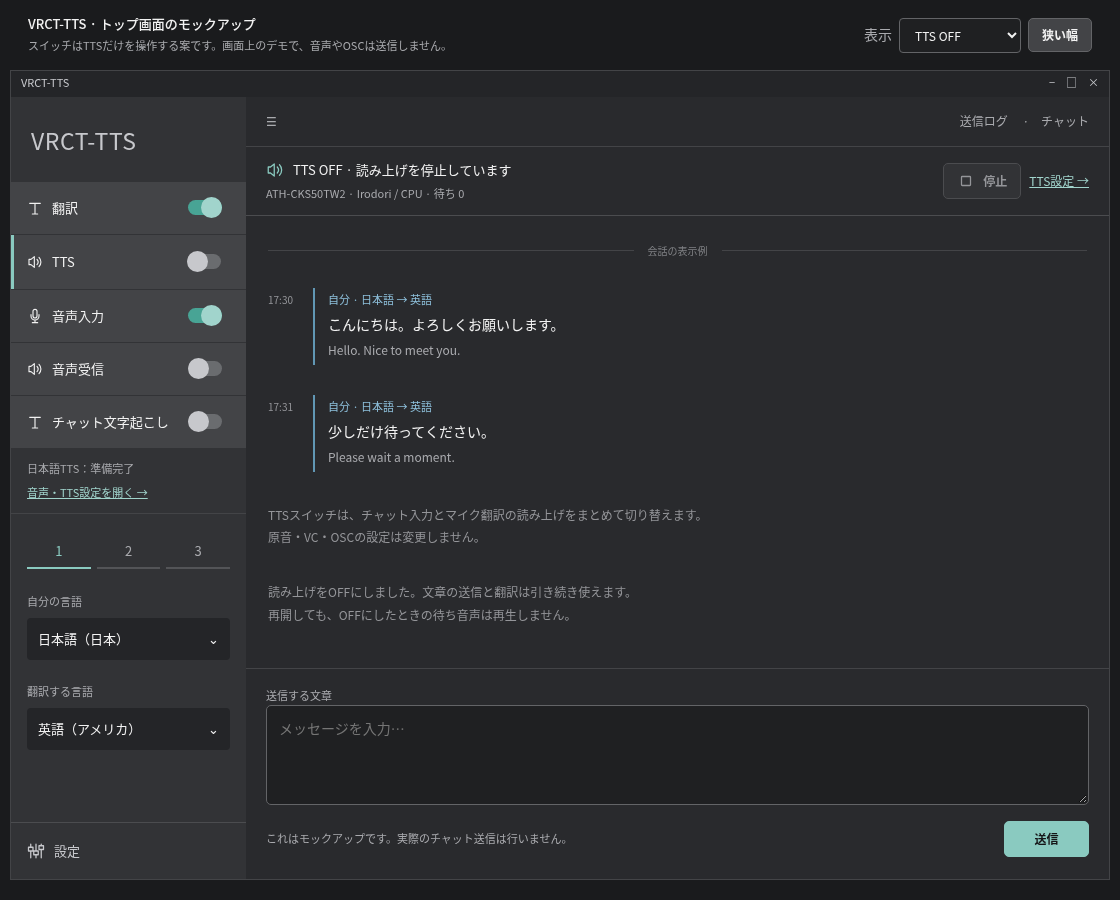
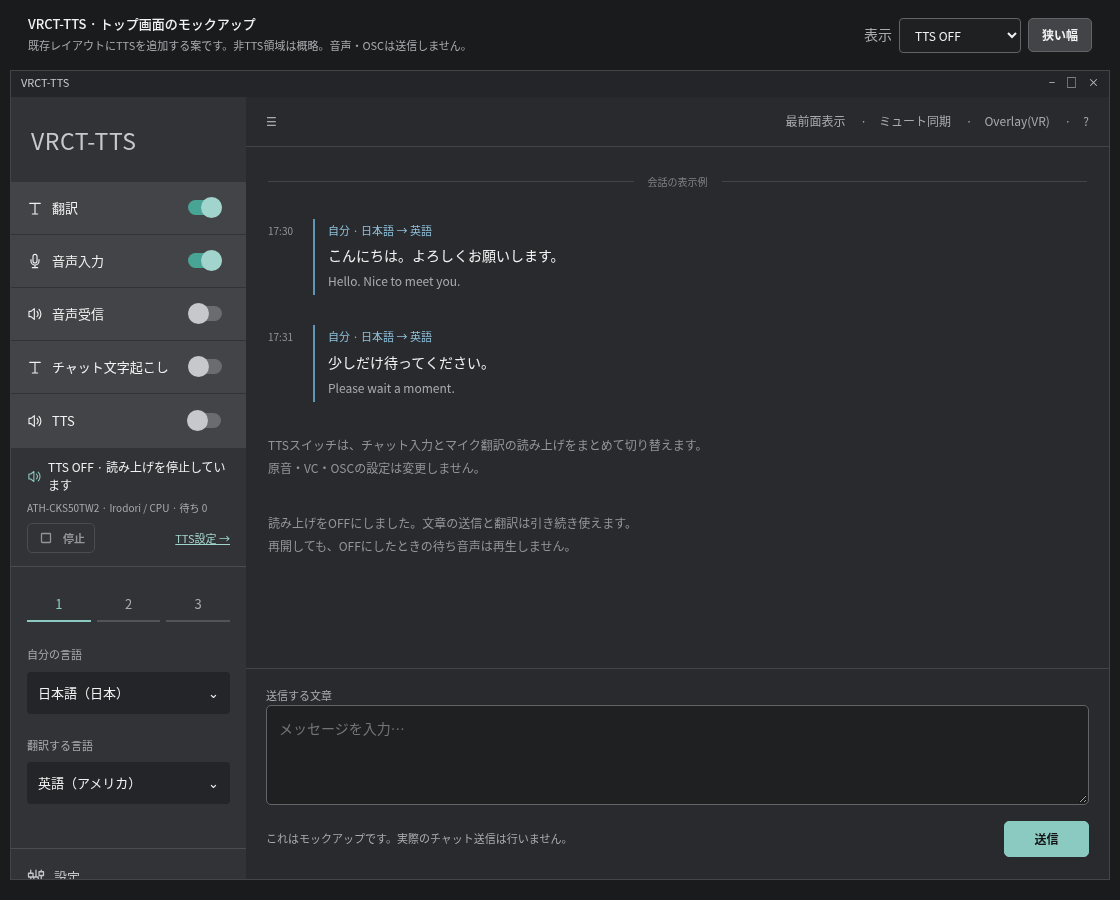
docs(tts): preserve existing VRCT layout in UI proposal

diff --git a/docs/design/tts-settings/main.html b/docs/design/tts-settings/main.html
@@ -8,14 +8,25 @@
 </style>
 <style>
 .home-layout{display:grid;grid-template-columns:235px minmax(0,1fr);min-height:0;flex:1}.home-sidebar{background:#323336;display:flex;flex-direction:column;overflow:auto}.brand{padding:26px 20px 23px;font-size:23px;font-weight:400;letter-spacing:.025em;color:#c7c8cc}.switches{display:grid;gap:1px}.switch-row{display:flex;align-items:center;justify-content:space-between;gap:8px;min-height:52px;padding:13px 16px;background:#434447;color:#f2f2f2}.switch-row .label{display:flex;align-items:center;gap:9px;font-size:13px}.switch-row .label svg{width:16px}.switch-row.tts{border-left:3px solid #8acac0;padding-left:13px}.switch-control{display:flex;align-items:center;gap:7px;min-height:28px;min-width:52px;padding:3px;border:0;background:transparent!important;box-shadow:none}.switch-track{display:block;width:34px;height:15px;border-radius:15px;background:#6a6c6f;position:relative}.switch-track:after{content:"";position:absolute;left:0;top:-3px;width:21px;height:21px;border-radius:100%;background:#c7c8cc}.switch-control[aria-checked=true] .switch-track,.switch-track.on{background:#48a495}.switch-control[aria-checked=true] .switch-track:after,.switch-track.on:after{left:13px;background:#a1d4cc}.switch-track.static{width:34px;flex:none;margin:0 8px}.language-box{padding:21px 16px}.preset{display:flex;gap:6px;margin-bottom:24px}.preset span{flex:1;text-align:center;border-bottom:2px solid #535457;padding:6px;color:#a9aaae;font-size:13px}.preset span.active{border-color:#8acac0;color:#8acac0}.language-box small{display:block;font-size:11px;margin-bottom:8px}.language{background:#242528;padding:11px;border-radius:4px;display:flex;justify-content:space-between;font-size:13px;margin-bottom:23px}.settings-link{margin-top:auto;padding:18px 16px;border-top:1px solid #4b4c4f;display:flex;align-items:center;gap:9px;text-decoration:none;color:#c7c8cc;font-size:13px}.chat{display:flex;flex-direction:column;min-height:0}.chat-top{display:flex;align-items:center;justify-content:space-between;padding:13px 20px;border-bottom:1px solid #434447;font-size:12px;color:#a9aaae;min-height:50px}.tts-strip{display:flex;align-items:center;justify-content:space-between;gap:15px;padding:13px 20px;background:#2e3535;border-bottom:1px solid #4b4c4f}.tts-strip .title{display:flex;align-items:center;gap:9px;font-size:13px}.tts-strip .title svg{color:#8acac0}.tts-strip small{font-size:11px;display:block;margin-top:5px}.tts-strip .actions{align-items:center}.tts-strip button{font-size:12px}.tts-strip a{font-size:12px;white-space:nowrap}.messages{padding:27px 22px;overflow:auto;flex:1}.date-line{display:flex;align-items:center;gap:14px;color:#7f8084;font-size:10px;margin-bottom:29px}.date-line:before,.date-line:after{content:"";height:1px;flex:1;background:#434447}.message{display:flex;gap:13px;margin-bottom:30px}.message-time{font-size:10px;color:#949599;padding-top:4px;min-width:32px}.message-content{border-left:2px solid #6197b4;padding-left:13px}.message-content small{color:#8ec0dc;font-size:11px}.message-content p{font-size:14px;margin:5px 0}.message-content .translation{color:#a9aaae;font-size:12px}.empty-hint{font-size:12px;color:#949599;margin-top:32px;line-height:1.9}.input-area{padding:15px 20px 22px;border-top:1px solid #434447}.input-area textarea{width:100%;min-height:100px;resize:vertical;border:1px solid #636467;background:#1f2022;color:#f2f2f2;padding:12px;border-radius:5px;font:14px/1.7 inherit}.input-actions{display:flex;align-items:center;justify-content:space-between;margin-top:10px;gap:12px}.input-actions small{font-size:11px}.input-actions button{min-width:85px;font-size:12px}.ready-note{font-size:11px;padding:12px 16px;color:#a9aaae;border-bottom:1px solid #434447}.ready-note a{display:inline-block;margin-top:7px}.tts-strip.off{background:#292a2d}.tts-strip.unready{background:#38322b}.tts-strip.unready .title svg{color:#e4b57b}.compact .home-layout{grid-template-columns:175px minmax(0,1fr)}.compact .tts-strip{align-items:flex-start;flex-direction:column}@media(max-width:760px){.home-layout{grid-template-columns:170px minmax(0,1fr)}.tts-strip{align-items:flex-start;flex-direction:column}.brand{font-size:19px;padding-left:14px}.switch-row{padding:13px 10px}.switch-row .label{font-size:12px}.input-actions{align-items:flex-start;flex-direction:column}}
+
+/* Keep the main message area unchanged; TTS lives beside the existing switches. */
+.switch-row.tts{border-left:0;padding-left:16px}
+.home-sidebar>.tts-strip{padding:10px 16px 13px;background:#323336;flex-direction:column;align-items:stretch;gap:8px}
+.home-sidebar>.tts-strip .title{font-size:12px;gap:6px}
+.home-sidebar>.tts-strip .title svg{width:15px;height:15px;flex:none}
+.home-sidebar>.tts-strip small{font-size:10px;overflow-wrap:anywhere}
+.home-sidebar>.tts-strip .actions{justify-content:space-between}
+.home-sidebar>.tts-strip button{font-size:11px;min-height:30px;padding:4px 9px}
+.home-sidebar>.tts-strip a{font-size:11px}
+.home-sidebar>.tts-strip.unready{background:#38322b}
 </style>
 <svg style="display:none"><defs><symbol id="speaker" viewBox="0 0 24 24"><path d="M11 4 6 8H3v8h3l5 4zM15 8a6 6 0 0 1 0 8m3-11a10 10 0 0 1 0 14"/></symbol><symbol id="mic" viewBox="0 0 24 24"><rect x="9" y="2" width="6" height="13" rx="3"/><path d="M6 10v2a6 6 0 0 0 12 0v-2m-6 8v4m-4 0h8"/></symbol><symbol id="text" viewBox="0 0 24 24"><path d="M4 5h16M12 5v16M8 21h8"/></symbol><symbol id="stop" viewBox="0 0 24 24"><rect x="6" y="6" width="12" height="12" rx="1"/></symbol><symbol id="settings" viewBox="0 0 24 24"><path d="M5 3v4m0 5v9M12 3v9m0 5v4M19 3v2m0 5v11M2 7h6v5H2zm7 5h6v5H9zm7-7h6v5h-6z"/></symbol></defs></svg>
-<header class="preview"><div><strong>VRCT-TTS · トップ画面のモックアップ</strong><small>スイッチはTTSだけを操作する案です。画面上のデモで、音声やOSCは送信しません。</small></div><div class="preview-controls"><label for="scenario" class="muted">表示</label><select id="scenario"><option value="on">TTS ON</option><option value="off">TTS OFF</option><option value="unready">準備が必要</option><option value="pending">応答待ち</option></select><button id="width" aria-pressed="false">狭い幅</button></div></header>
-<div class="window"><div class="titlebar"><span>VRCT-TTS</span><span aria-hidden="true">−　□　×</span></div><div class="home-layout"><aside class="home-sidebar"><div class="brand">VRCT-TTS</div><div class="switches"><div class="switch-row"><span class="label"><svg class="icon"><use href="#text"/></svg>翻訳</span><span class="switch-track on static" aria-hidden="true"></span></div><div class="switch-row tts"><span class="label" id="tts-label"><svg class="icon"><use href="#speaker"/></svg>TTS</span><button id="tts-toggle" class="switch-control" role="switch" aria-checked="true" aria-labelledby="tts-label" aria-describedby="tts-scope"><span class="switch-track" aria-hidden="true"></span></button></div><div class="switch-row"><span class="label"><svg class="icon"><use href="#mic"/></svg>音声入力</span><span class="switch-track on static" aria-hidden="true"></span></div><div class="switch-row"><span class="label"><svg class="icon"><use href="#speaker"/></svg>音声受信</span><span class="switch-track static" aria-hidden="true"></span></div><div class="switch-row"><span class="label"><svg class="icon"><use href="#text"/></svg>チャット文字起こし</span><span class="switch-track static" aria-hidden="true"></span></div></div><div class="ready-note"><span id="side-state">日本語TTS：準備完了</span><br><a href="mockup.html">音声・TTS設定を開く →</a></div><div class="language-box"><div class="preset"><span class="active">1</span><span>2</span><span>3</span></div><small>自分の言語</small><div class="language">日本語（日本）<span>⌄</span></div><small>翻訳する言語</small><div class="language">英語（アメリカ）<span>⌄</span></div></div><a class="settings-link" href="mockup.html"><svg class="icon"><use href="#settings"/></svg>設定</a></aside><main class="chat"><div class="chat-top"><span>☰</span><span>送信ログ　 ·　チャット</span></div><section class="tts-strip" id="tts-strip" aria-label="TTSの状態"><div><div class="title"><svg class="icon"><use href="#speaker"/></svg><span id="tts-state" role="status">TTS ON · 原文を読み上げ</span></div><small id="tts-detail">ATH-CKS50TW2 · Irodori / CPU · 待ち 0</small></div><div class="actions"><button id="stop-tts"><svg class="icon"><use href="#stop"/></svg>停止</button><a href="mockup.html">TTS設定 →</a></div></section><div class="messages"><div class="date-line">会話の表示例</div><article class="message"><span class="message-time">17:30</span><div class="message-content"><small>自分 · 日本語 → 英語</small><p>こんにちは。よろしくお願いします。</p><p class="translation">Hello. Nice to meet you.</p></div></article><article class="message"><span class="message-time">17:31</span><div class="message-content"><small>自分 · 日本語 → 英語</small><p>少しだけ待ってください。</p><p class="translation">Please wait a moment.</p></div></article><p class="empty-hint" id="tts-scope">TTSスイッチは、チャット入力とマイク翻訳の読み上げをまとめて切り替えます。<br>原音・VC・OSCの設定は変更しません。</p><p class="empty-hint" id="off-hint" hidden>読み上げをOFFにしました。文章の送信と翻訳は引き続き使えます。<br>再開しても、OFFにしたときの待ち音声は再生しません。</p></div><form class="input-area" id="chat-form"><label for="chat-text" class="muted" style="font-size:11px">送信する文章</label><textarea id="chat-text" placeholder="メッセージを入力…"></textarea><div class="input-actions"><small>これはモックアップです。実際のチャット送信は行いません。</small><button class="primary" type="submit">送信</button></div></form></main></div></div><div class="demo-toast" id="toast" role="status" hidden></div>
+<header class="preview"><div><strong>VRCT-TTS · トップ画面のモックアップ</strong><small>既存レイアウトにTTSを追加する案です。非TTS領域は概略。音声・OSCは送信しません。</small></div><div class="preview-controls"><label for="scenario" class="muted">表示</label><select id="scenario"><option value="on">TTS ON</option><option value="off">TTS OFF</option><option value="unready">準備が必要</option><option value="pending">応答待ち</option></select><button id="width" aria-pressed="false">狭い幅</button></div></header>
+<div class="window"><div class="titlebar"><span>VRCT-TTS</span><span aria-hidden="true">−　□　×</span></div><div class="home-layout"><aside class="home-sidebar"><div class="brand">VRCT-TTS</div><div class="switches"><div class="switch-row"><span class="label"><svg class="icon"><use href="#text"/></svg>翻訳</span><span class="switch-track on static" aria-hidden="true"></span></div><div class="switch-row"><span class="label"><svg class="icon"><use href="#mic"/></svg>音声入力</span><span class="switch-track on static" aria-hidden="true"></span></div><div class="switch-row"><span class="label"><svg class="icon"><use href="#speaker"/></svg>音声受信</span><span class="switch-track static" aria-hidden="true"></span></div><div class="switch-row"><span class="label"><svg class="icon"><use href="#text"/></svg>チャット文字起こし</span><span class="switch-track static" aria-hidden="true"></span></div><div class="switch-row tts"><span class="label" id="tts-label"><svg class="icon"><use href="#speaker"/></svg>TTS</span><button id="tts-toggle" class="switch-control" role="switch" aria-checked="true" aria-labelledby="tts-label" aria-describedby="tts-scope"><span class="switch-track" aria-hidden="true"></span></button></div></div><section class="tts-strip" id="tts-strip" aria-label="TTSの状態"><div><div class="title"><svg class="icon"><use href="#speaker"/></svg><span id="tts-state" role="status">TTS ON · 原文を読み上げ</span></div><small id="tts-detail">ATH-CKS50TW2 · Irodori / CPU · 待ち 0</small></div><div class="actions"><button id="stop-tts"><svg class="icon"><use href="#stop"/></svg>停止</button><a href="mockup.html">TTS設定 →</a></div></section><div class="language-box"><div class="preset"><span class="active">1</span><span>2</span><span>3</span></div><small>自分の言語</small><div class="language">日本語（日本）<span>⌄</span></div><small>翻訳する言語</small><div class="language">英語（アメリカ）<span>⌄</span></div></div><a class="settings-link" href="mockup.html"><svg class="icon"><use href="#settings"/></svg>設定</a></aside><main class="chat"><div class="chat-top"><span>☰</span><span>最前面表示　 ·　ミュート同期　 ·　Overlay(VR)　 ·　?</span></div><div class="messages"><div class="date-line">会話の表示例</div><article class="message"><span class="message-time">17:30</span><div class="message-content"><small>自分 · 日本語 → 英語</small><p>こんにちは。よろしくお願いします。</p><p class="translation">Hello. Nice to meet you.</p></div></article><article class="message"><span class="message-time">17:31</span><div class="message-content"><small>自分 · 日本語 → 英語</small><p>少しだけ待ってください。</p><p class="translation">Please wait a moment.</p></div></article><p class="empty-hint" id="tts-scope">TTSスイッチは、チャット入力とマイク翻訳の読み上げをまとめて切り替えます。<br>原音・VC・OSCの設定は変更しません。</p><p class="empty-hint" id="off-hint" hidden>読み上げをOFFにしました。文章の送信と翻訳は引き続き使えます。<br>再開しても、OFFにしたときの待ち音声は再生しません。</p></div><form class="input-area" id="chat-form"><label for="chat-text" class="muted" style="font-size:11px">送信する文章</label><textarea id="chat-text" placeholder="メッセージを入力…"></textarea><div class="input-actions"><small>これはモックアップです。実際のチャット送信は行いません。</small><button class="primary" type="submit">送信</button></div></form></main></div></div><div class="demo-toast" id="toast" role="status" hidden></div>
 <script>
 const $=id=>document.getElementById(id);let on=new URLSearchParams(location.search).get('tts')!=='off',pending=false,ready=true,toastTimer,requestTimer;
 function toast(text){$('toast').textContent=text;$('toast').hidden=false;clearTimeout(toastTimer);toastTimer=setTimeout(()=>$('toast').hidden=true,2600)}
-function render(){$('scenario').value=!ready?'unready':pending?'pending':on?'on':'off';document.querySelectorAll('a[href^="mockup.html"]').forEach(a=>a.href='mockup.html?tts='+(on?'on':'off'));const checked=on&&ready;$('tts-toggle').setAttribute('aria-checked',String(checked));$('tts-toggle').disabled=pending||!ready;$('tts-toggle').setAttribute('aria-busy',String(pending));$('tts-state').textContent=pending?'TTS · 切り替えを確認中':!ready?'TTS OFF · エンジンの起動が必要':on?'TTS ON · 原文を読み上げ':'TTS OFF · 読み上げを停止しています';$('tts-detail').textContent=!ready?'TTS設定でモデルを指定し、エンジンを起動してください':pending?'応答を待っています。状態を確認できるまで確定表示にしません。':'ATH-CKS50TW2 · Irodori / CPU · 待ち 0';$('tts-strip').classList.toggle('off',!on);$('tts-strip').classList.toggle('unready',!ready);$('side-state').textContent=ready?'日本語TTS：準備完了':'日本語TTS：停止中';$('off-hint').hidden=on||!ready;$('stop-tts').disabled=!on&&!pending}
+function render(){$('scenario').value=!ready?'unready':pending?'pending':on?'on':'off';document.querySelectorAll('a[href^="mockup.html"]').forEach(a=>a.href='mockup.html?tts='+(on?'on':'off'));const checked=on&&ready;$('tts-toggle').setAttribute('aria-checked',String(checked));$('tts-toggle').disabled=pending||!ready;$('tts-toggle').setAttribute('aria-busy',String(pending));$('tts-state').textContent=pending?'TTS · 切り替えを確認中':!ready?'TTS OFF · エンジンの起動が必要':on?'TTS ON · 原文を読み上げ':'TTS OFF · 読み上げを停止しています';$('tts-detail').textContent=!ready?'TTS設定でモデルを指定し、エンジンを起動してください':pending?'応答を待っています。状態を確認できるまで確定表示にしません。':'ATH-CKS50TW2 · Irodori / CPU · 待ち 0';$('tts-strip').classList.toggle('off',!on);$('tts-strip').classList.toggle('unready',!ready);$('off-hint').hidden=on||!ready;$('stop-tts').disabled=!on&&!pending}
 $('tts-toggle').onclick=()=>{pending=true;render();requestTimer=setTimeout(()=>{on=!on;pending=false;render();toast(on?'TTSをONにしました（デモ）':'TTSの再生と待ち行列を止めました（デモ）')},500)};
 $('stop-tts').onclick=()=>toast('TTSの再生と待ち行列を停止しました。次の送信は読み上げます（デモ）');
 $('scenario').onchange=e=>{clearTimeout(requestTimer);clearTimeout(toastTimer);$('toast').hidden=true;const v=e.target.value;ready=v!=='unready';pending=v==='pending';on=v==='on'||pending;render()};

diff --git a/docs/superpowers/plans/2026-10-29-tts-settings-ui.md b/docs/superpowers/plans/2026-10-29-tts-settings-ui.md
@@ -12,6 +12,9 @@
 
 ## Global Constraints
 
+- 既存MainPage/SidebarSection/MainSectionの配置・既存スイッチの順序を維持し、TTSを末尾へ追加する。
+- 言語設定、右上のクイック設定、ログ/入力欄のリサイズ比率、送信ボタン設定、拡大率・compact modeを維持する。
+- モックの非TTS領域は概略。既存部品をモックのHTML/CSSで置換せず、会話欄に大きなTTS帯を追加しない。
 - TTSスイッチはchat/mic翻訳の読み上げだけに作用し、原音・直接VC・ASR・翻訳・OSCの設定を変更しない。
 - 保存だけでモデル・マイク・発声を開始しない。TTS ONでもルートの安全ミュートを解除しない。
 - シードの既定は空文字＝サーバー既定、同梱サーバーではランダム。固定は検証後に整数で送信し、0を保持する。
@@ -106,12 +109,14 @@
 ## Task 4: トップ画面のスイッチと状態表示
 
 **Files:** `src-ui/views/app/main_page/sidebar_section/main_function_switch/MainFunctionSwitch.jsx`,
-`src-ui/views/app/main_page/main_section/MainSection.jsx`, 新規`main_section/tts_controls/TTSControls.jsx`とSCSS、
+必要なら同じディレクトリへ小さな`TTSControls.jsx`とSCSS、
 `src-ui/logics/voice/useVoice.js`, `src-ui/logics/useReceiveRoutes.js`, locale各言語。
 **Test:** 新規`tests/voice/test_tts_controls_ui.py`、既存voice UI entryを使用。
 
 - [ ] 既存SwitchContainer/ToggleSwitchの表示を再利用する。TTSというlabelをON/OFFで変更しない。
   role=switch/aria-checked、Space操作、pending、compact表示のnameを検証する。
+- [ ] 既存4スイッチは並び替えず、TTSを末尾へ追加。状態・停止・設定リンクはTTS行の近くに収める。
+  MainSection、ログ、入力欄、右上の既存クイック設定を組み替えない。
 - [ ] 設定ページを一度も開かなくてもstatus/settings/server stateを取得できるよう購読を置く。
   ページ移動でタイマーが重複せず、遅いstateの順序逆転を世代で拒否する。
 - [ ] 通常ON/OFF、未設定、サーバー停止、管理経路ミュート、ネットワーク断のテストを先に追加。
@@ -146,6 +151,8 @@
   OFFクリック→最後のTTS PCM、first audioを計測し、モデル単体時間と分離して記録する。
 - [ ] DPMSガード下でAppImage通常起動、専用ページ、トップ切替、保存復元、870×654/拡大/長いパスを確認。
   色のコントラスト、tab順、focus、stickyバーによる遮蔽も点検する。
+- [ ] 同じウィンドウ寸法・拡大率の既存画面と比較し、変更範囲をTTS追加部分に限定して確認。
+  ログ/入力欄比率、言語選択、送信ボタンの表示設定、compact操作を変更前後で照合する。
 - [ ] Linux build＋AppImage再検査、OCR/モデル非同梱検査を実行。合格するまでインストール済み成果物を置換しない。
 - [ ] 変更と検証結果をまとめてローカルコミット。Windows/VRChat/聴感など未実施項目を明記する。
 

diff --git a/docs/superpowers/specs/2026-10-29-tts-settings-ui-design.md b/docs/superpowers/specs/2026-10-29-tts-settings-ui-design.md
@@ -9,6 +9,7 @@
 - トップのスイッチは、チャット入力とマイク翻訳の**読み上げだけ**をまとめて切り替える。
   原音・直接VC・ASR・翻訳・OSCの設定を変更しない。
 - シード値とInstructionを指定できるようにする。
+- 既存VRCTのレイアウトを尊重し、TTS以外の配置や操作を変えない。
 - 今回の成果物は原典調査、設計案、実装計画、操作できるモックアップ。
 
 ページ名「音声・TTS」、項目の配置、起動時のTTS OFF、各入力の保存方式は以下の提案。
@@ -44,6 +45,11 @@ Pythonモデルはsrc-python/models配下。エラー表示改善の未完差分
 
 ## レイアウト・見た目
 
+- メイン画面は既存MainPage/SidebarSection/MainSectionを土台にする。左の既存スイッチの順序、
+  言語プリセット・言語交換・翻訳エンジン選択、右上のクイック設定、会話ログと入力欄の配置を維持する。
+  ログと入力欄のリサイズ比率、送信ボタンの表示設定、UI拡大率、compact modeも維持する。
+- モックの非TTS領域は説明用の概略。モックのロゴ・ログ書式・入力欄・送信ボタンで既存部品を置換しない。
+  モックHTML/CSSの移植ではなく、既存React部品への追加として実装する。
 - 既存のCSS変数、SectionLabelComponent、Templatesの行構造を使用する。
   入力の即時保存を伴う部品は外観だけを理由に流用せず、現在のdraft→保存APIを維持する。
 - 入力欄は暗い面＋控えめな枠、操作ボタンは面のある短いボタン＋動詞ラベル。
@@ -65,8 +71,10 @@ Pythonモデルはsrc-python/models配下。エラー表示改善の未完差分
 
 ## トップ画面のTTSスイッチ
 
-既存MainFunctionSwitchの翻訳・音声入力などと同じ列へTTSを追加する。
-右の会話欄上部にはTTS状態、出力先、待ち件数、停止、専用設定への入口を置く。
+既存MainFunctionSwitchの並び順を変えず、末尾にTTSを追加する。
+TTS状態、停止、専用設定への入口はその行の近くへ小さくまとめる。
+前案の会話欄上部の大きなTTS帯は採用せず、会話ログや入力欄の領域を新たに削らない。
+出力先や詳細な待ち状態は専用設定、またはTTS行の補足表示から確認できるようにする。
 簡易表示でもaccessible nameとON/OFF表示を残す。
 
 | 操作・状態 | 契約 |

diff --git a/docs/design/tts-settings/README.md b/docs/design/tts-settings/README.md
@@ -10,6 +10,9 @@
 - 入力の変更→保存、エンジン設定の変更→保存→起動は画面内だけのシミュレーション。
 - 「狭い幅」で設定行の折り返しを確認。ページ間のリンクはTTSのON/OFF例を引き継ぐ。
 - 多言語/ASR/直接VCの詳細は配置見本。実装では現在の項目を保持する。
+- 既存VRCTのレイアウトを優先し、TTSスイッチは既存の並びの末尾へ追加する。
+  状態表示もその近くへまとめ、会話欄へ大きなTTS帯を追加しない。
+  モックの非TTS領域は概略であり、ロゴ・ログ・言語設定・入力欄を置換する提案ではない。
 
 [設計](../../superpowers/specs/2026-10-29-tts-settings-ui-design.md)・
 [実装計画](../../superpowers/plans/2026-10-29-tts-settings-ui.md)・[原典調査](research.md)。
